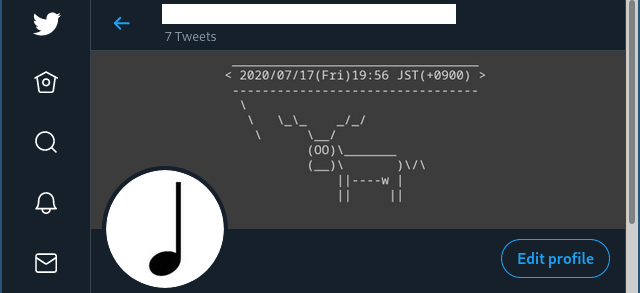
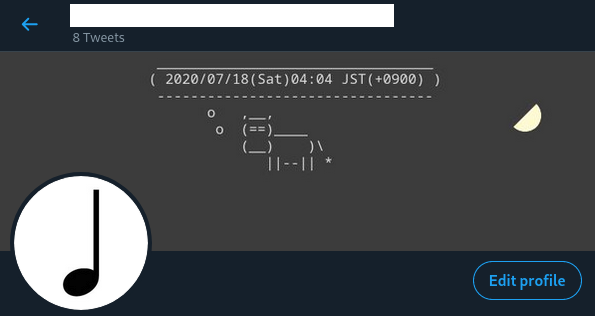
Now the Sun or the Moon can be displayed and they move as time passes.

diff --git a/main.py b/main.py
@@ -9,6 +9,7 @@ import subprocess
 import json
 import signal
 import random
+import math
 
 from PIL import Image, ImageDraw, ImageFont
 import twitter
@@ -16,6 +17,8 @@ import twitter
 #-------------------------------------#
 
 ### Parameters ###
+
+is_debug_mode: bool = False
 
 with open('config.json', 'r') as f:
     prm: dict = json.load(f)
@@ -35,9 +38,14 @@ header_size: tuple = (1500, 500) #This is the officially recommended size. ref: 
 font_name: str = prm['font_name']
 font_size: int = 35
 
-color_mode: str = 'L'
-bg_color: int = 0x3C
-fg_color: int = 0xDD
+color_mode: str = 'RGB'
+bg_color: int = (0x3C, 0x3C, 0x3C)
+fg_color: int = (0xDD, 0xDD, 0xDD)
+
+should_draw_sun_or_moon: bool = prm['should_draw_sun_or_moon']
+sun_radius: int = 40
+sun_color: int = (0xEF, 0x8E, 0x38)
+moon_color: int = (0xFE, 0xFA, 0xD4)
 
 #-------------------------------------#
 
@@ -78,6 +86,8 @@ class Twitter:
         print('-----')
         for i in range(num_trial):
             try:
+                if (i != 0):
+                    print()
                 print(f'[{i}/{num_trial}] Uploading the header image...')
                 self.twitter_client.UpdateBanner(image_path)
                 print('Done.')
@@ -104,11 +114,46 @@ def create_date_string() -> str:
 
     return subprocess.run(command, capture_output = True).stdout.decode('utf-8')
 
+#experimental
+def draw_sun_or_moon(draw_object: ImageDraw.Draw) -> None:
+
+    #The orbit of the Sun and the Moon is on this circle.
+    #This circle is generally larger then the size of the header image and its center is below the header image.
+    x: float = header_size[0] / 2
+    y: float = header_size[1] * 2
+    r: float = y * 1.015
+
+    #the angles of sunrise and sunset
+    max_radian: float = 2.46
+    min_radian: float = 0.69
+    delta_radian: float = (max_radian - min_radian) / (12 * 60)
+
+    night_start_hour: int = 18
+    night_end_hour: int = 6
+
+    current_time: object = time.localtime()
+
+    if (night_end_hour <= current_time.tm_hour < night_start_hour): #sun
+        theta: float = max_radian - ((current_time.tm_hour - night_end_hour) * 60 + current_time.tm_min) * delta_radian
+        X: int = int(x + r * math.cos(theta)) #`X` and `Y` define the bounding box of the Sun or the Moon.
+        Y: int = int(y - r * math.sin(theta))
+        draw_object.ellipse([(X - sun_radius, Y - sun_radius), (X + sun_radius, Y + sun_radius)], fill = sun_color)
+    else: #moon
+        color: int = moon_color
+        if (current_time.tm_hour < night_end_hour):
+            theta: float = max_radian - ((current_time.tm_hour + night_end_hour) * 60 + current_time.tm_min) * delta_radian
+        else:
+            theta: float = max_radian - ((current_time.tm_hour - night_start_hour) * 60 + current_time.tm_min) * delta_radian
+        X: int = int(x + r * math.cos(theta))
+        Y: int = int(y - r * math.sin(theta))
+        draw_object.chord([(X - sun_radius, Y - sun_radius), (X + sun_radius, Y + sun_radius)], start = -45, end = 135, fill = moon_color)
+
 #-------------------------------------#
 
 ### main ###
 
-twitter_client: Twitter = Twitter(twitter_credentials_file)
+if (not is_debug_mode):
+    twitter_client: Twitter = Twitter(twitter_credentials_file)
 
 font: object = ImageFont.truetype(font_name, size = font_size)
 
@@ -116,7 +161,17 @@ while (True):
 
     image: Image.Image = Image.new(color_mode, header_size, color = bg_color)
     draw_object: ImageDraw.Draw = ImageDraw.Draw(image)
+
+    if (should_draw_sun_or_moon):
+        draw_sun_or_moon(draw_object)
+
     draw_object.text((header_size[0] / 4, 0), text = create_date_string(), fill = fg_color, font = font)
+
+    if (is_debug_mode):
+        image = image.resize((header_size[0] // 2, header_size[1] // 2))
+        image.show()
+        break
+
     image.save(output_image_file)
 
     twitter_client.change_header_image_(output_image_file)

diff --git a/README.md b/README.md
@@ -12,7 +12,7 @@ every 60 seconds.
 
 | ![ss.png](./readme_assets/ss.png) |
 |:-:|
-| Fig: An example result. |
+| Fig: An example result. The Sun or the Moon does move as time passes. |
 
 ## Requirements
 
